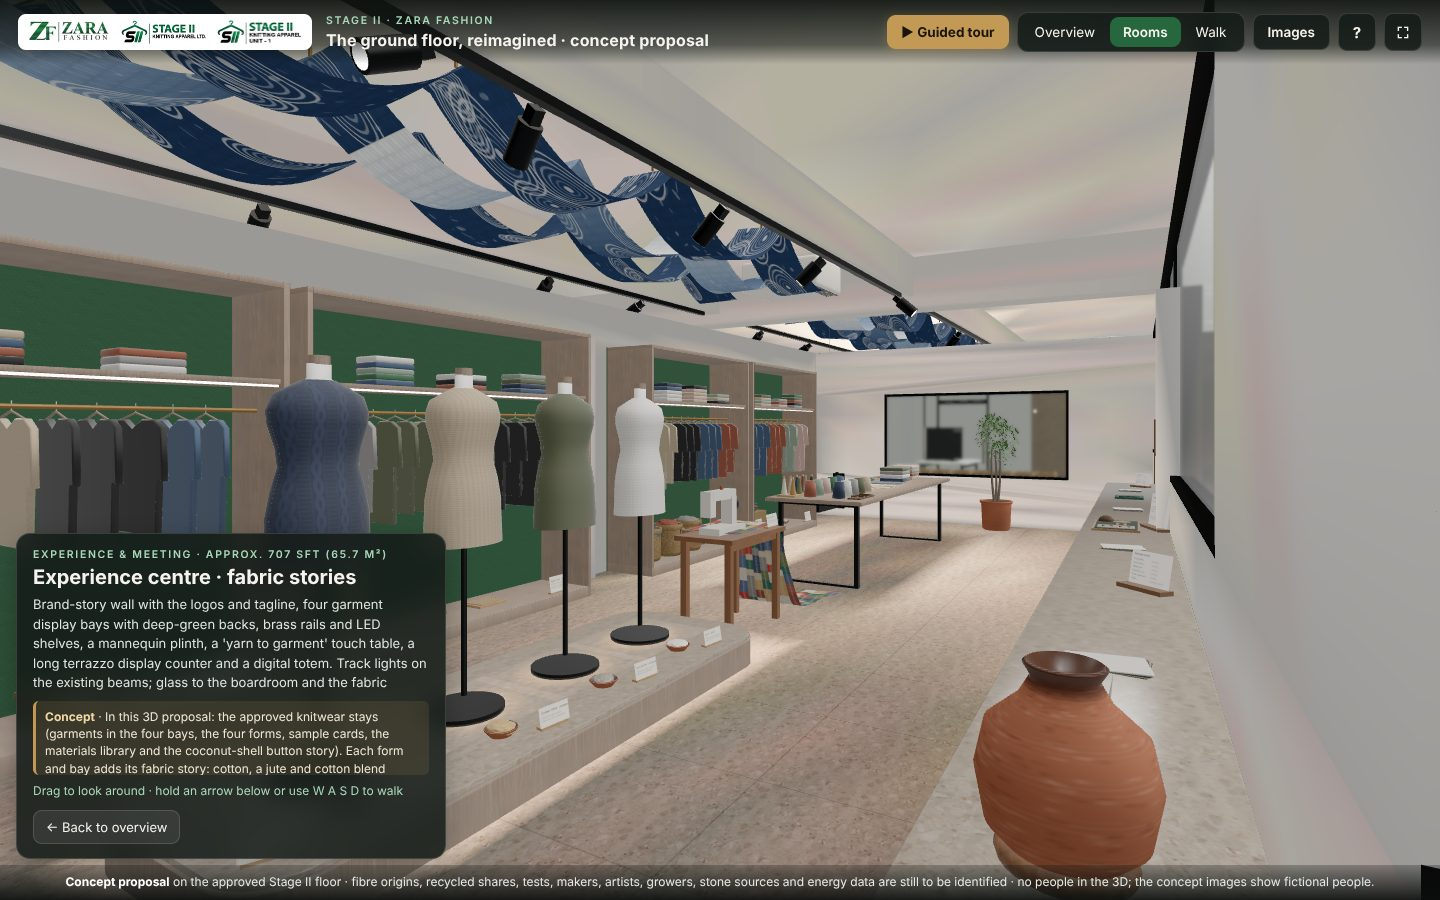
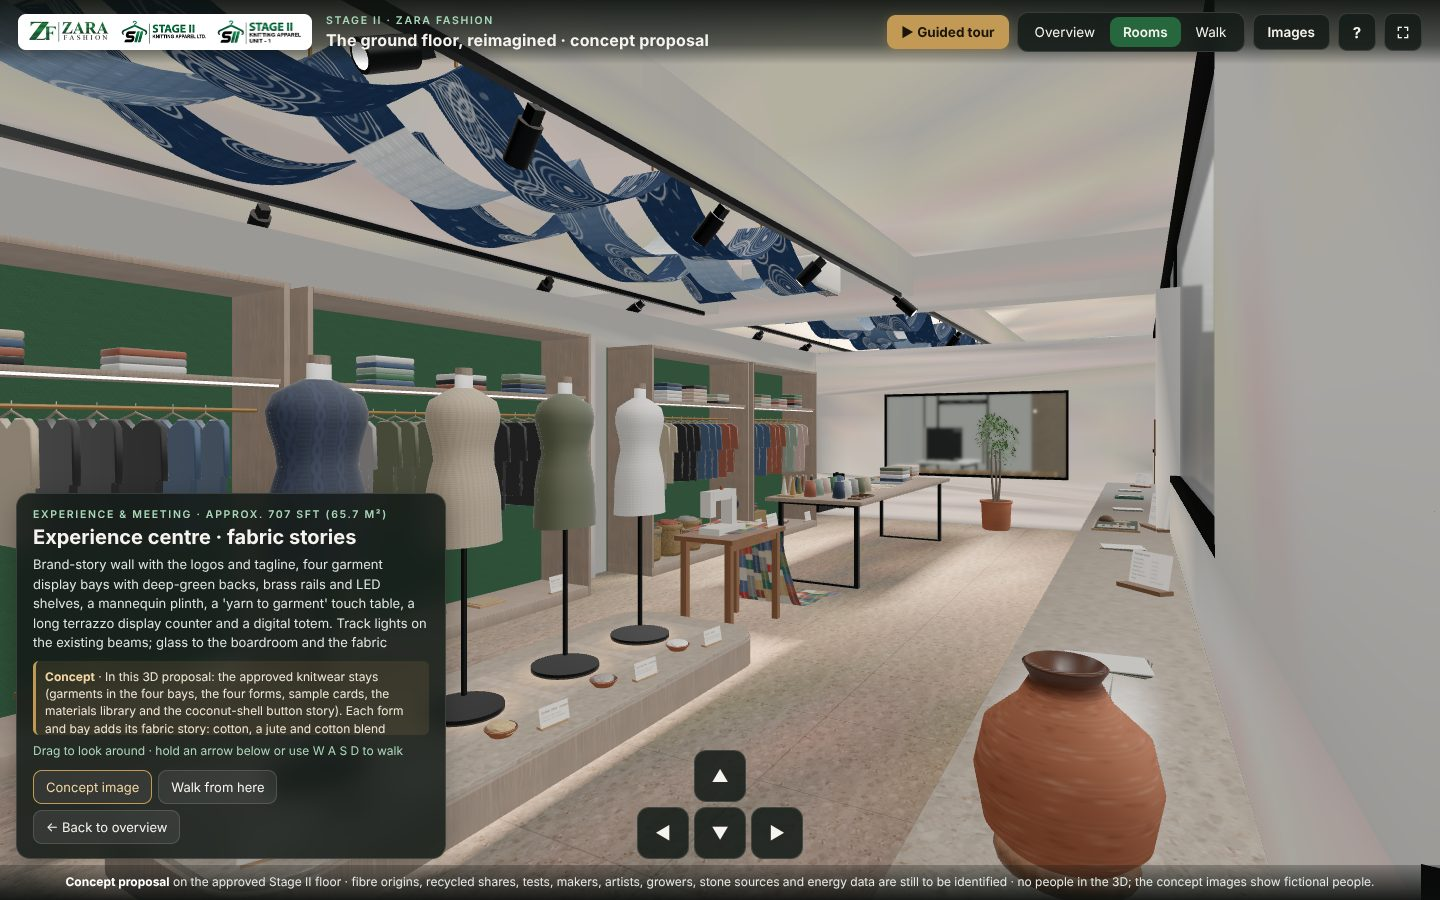
Final build a43fd96: arrows check passes (desktop and phone); update 7 checks complete
Claude-Session: https://claude.ai/code/session_019J6nTRSYGkqYLBQiQa9fAH

Changed region(s): [[0.0, 0.5289, 0.3125, 0.9022], [0.4375, 0.8089, 0.5625, 0.9644], [0.125, 0.0622, 0.2188, 0.1244]]

diff --git a/GARMENT_OFFICE_REALISM_UPGRADE/08_REALISTIC/deploy/DEPLOY_BENGAL_EARTH_LAB.md b/GARMENT_OFFICE_REALISM_UPGRADE/08_REALISTIC/deploy/DEPLOY_BENGAL_EARTH_LAB.md
@@ -15,7 +15,7 @@ Deploy it instead of update 5 or 6 if those are not live, or after them if they 
   - `test_worker_bel.mjs`: 66 checks, against the live `d11321e` and against the Workers of updates 5 and 6. They include the images page and a 3D model view. `test_worker.mjs`: 41 checks.
   - Browser checks on desktop and phone, in `qa/bel-20261030/after-1101b-*/`:
     - `stills`, `gallery`, `landscape`, `images-page`, `phone-walk` and `tour-play` (23 stops) pass.
-    - `arrows` is being run again. Its desktop run checked the room view before the slow software flight had landed, and then walked with the arrow; the check now waits for the flight to end.
+    - `arrows` passes. The first desktop run checked the room view before the slow software flight had landed, and then walked with the arrow; the check now waits for the flight to end.
   - All 72 files the 3D page requests exist at `a43fd96`, and so does `images.html`.
   - The page files, `images.html` and a 3D model view match raw.githubusercontent.com.
 
